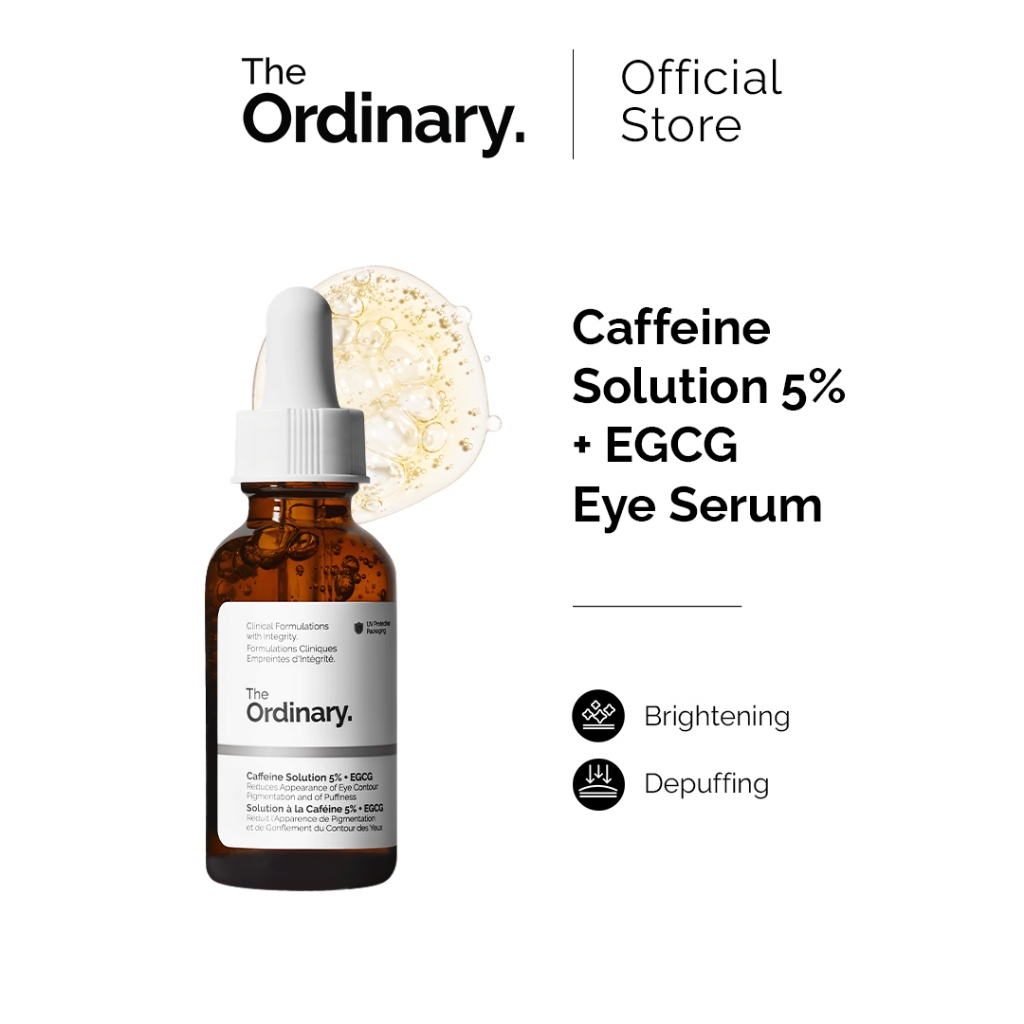
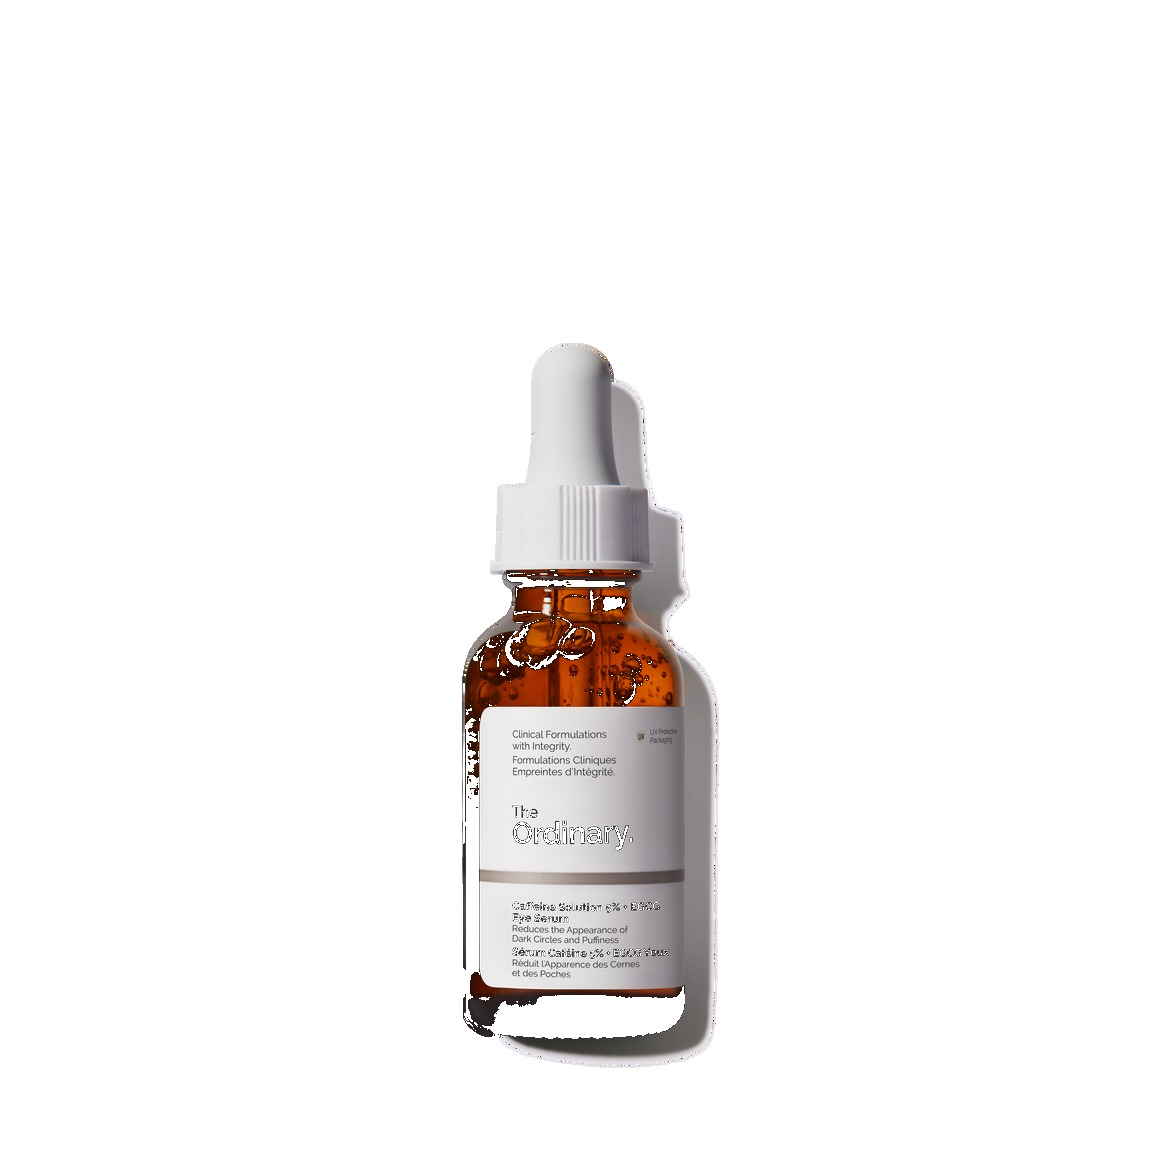
Fix stack product image framing: square media box, never crop
- .sp-stack-item__media: 1:1 aspect ratio; white bg + 1.25rem padding on the
  box (not the img) when a photo is present
- img: width/height auto, max-width/max-height 100%, object-fit contain,
  centred via place-items — overrides Tailwind preflight img rules
- single-item mobile layout also uses 1:1 box
- Replace The Ordinary caffeine + salicylic acid collage photos with clean
  white-background bottle shots

Changed region(s): [[0.1875, 0.25, 0.8438, 0.9375], [0.2188, 0.0625, 0.5312, 0.1562], [0.5938, 0.0625, 0.7812, 0.1562]]

diff --git a/src/styles/site.css b/src/styles/site.css
@@ -1011,7 +1011,7 @@ body.sp-menu-locked {
 .sp-stack-item__media {
   display: grid;
   place-items: center;
-  aspect-ratio: 4 / 3;
+  aspect-ratio: 1 / 1;
   border-bottom: 1.5px solid var(--sp-ink);
   background:
     linear-gradient(135deg, transparent 0 49.7%, var(--sp-line) 50%, transparent 50.3%),
@@ -1019,14 +1019,24 @@ body.sp-menu-locked {
   overflow: hidden;
 }
 
-.sp-stack-item__media:has(img) { background: #fff; }
+/* 有产品照片时：白底 + 内边距在容器上，图片自适应、绝不裁切 */
+.sp-stack-item__media:has(img) {
+  background: #fff;
+  padding: 1.25rem;
+  box-sizing: border-box;
+}
 
 .sp-stack-item__media img {
-  width: 100%;
-  height: 100%;
+  display: block;
+  width: auto;
+  height: auto;
+  max-width: 100%;
+  max-height: 100%;
+  min-width: 0;
+  min-height: 0;
   object-fit: contain;
-  padding: 0.75rem;
-  box-sizing: border-box;
+  padding: 0;
+  margin: 0;
 }
 
 .sp-stack-item__placeholder {
@@ -1070,7 +1080,7 @@ body.sp-menu-locked {
 @media (max-width: 720px) {
   .sp-grid--2 > .sp-stack-item:only-child { grid-template-columns: 1fr; }
   .sp-grid--2 > .sp-stack-item:only-child .sp-stack-item__media {
-    aspect-ratio: 4 / 3;
+    aspect-ratio: 1 / 1;
     min-height: 0;
     border-right: 0;
     border-bottom: 1.5px solid var(--sp-ink);
